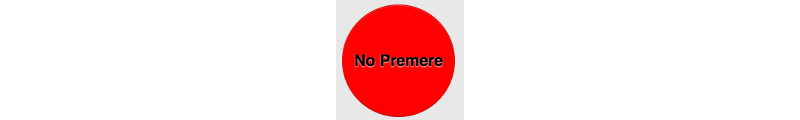
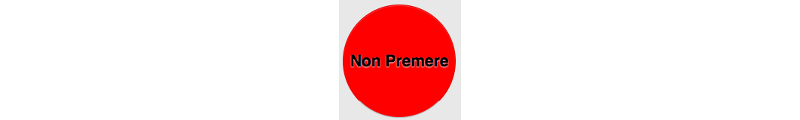
corrections to Italian translation

diff --git a/it/README.md b/it/README.md
@@ -1,10 +1,10 @@
-1. Realizzerai una app con un pulsante grande che, se premuto, farà apparire un messaggio a sorpresa. Vai su App Inventor e seleziona "Avvio nuovo progetto" dal menu **Progetti**. Attribuisci un nome al progetto.
+1. Realizzerai una app con un pulsante grande che, se premuto, farà apparire un messaggio a sorpresa. Vai su App Inventor e seleziona "Avvio nuovo progetto" dal menu **Progetti**. Dai un nome al progetto.
 
-2. Nella **Componenti Disponibili** a sinistra, fai clic su **Impaginazione** e trascina **DisposizioneVerticale** nella schermata del telefono.
+2. Nella barra **Componenti Disponibili** a sinistra, fai clic su **Impaginazione** e trascina **DisposizioneVerticale** nella schermata del telefono.
  
 3. Nel pannello **Proprietà** a destra, fai clic sulla proprietà **Altezza**, seleziona **Riempi contenitore** e fai clic su **OK**. Segui la stessa procedura per la proprietà **Larghezza**. 
 
-4. Ora nella **Componenti Disponibili** sotto **Interfaccia utente**, trascina un **Pulsante** nella **DisposizioneVerticale** sulla schermata del telefono.
+4. Ora nella barra **Componenti Disponibili** sotto **Interfaccia utente**, trascina un **Pulsante** nella **DisposizioneVerticale** sulla schermata del telefono.
 
 5. Sulla destra, alla voce **Componenti Utilizzati**, fai clic su `DisposizioneVerticale1`. Nel pannello **Proprietà**, modifica **AllineamentoOrizzontale** e **AllineamentoVerticale** selezionando _Centro_ per entrambi. Hai notato che il pulsante si è spostato al centro della schermata del telefono?
    ![](VertArrAlignProps_258_800.png)
@@ -14,13 +14,13 @@
    
 7. Modifica le proprietà **Altezza** e **Larghezza** a `150` **pixel** e modifica **Sagoma** in **ovale**.
 
-8. Fai clic sul pulsante **Aggiungi Schermo** situato sulla parte superiore della pagina. Lascia come nome Screen2 e fai clic su **OK**.
+8. Fai clic sul pulsante **Aggiungi Schermo** situato sulla parte superiore della pagina. Lascia come nome "Screen2" e fai clic su **OK**.
 
-9. Al caricamento della nuova schermata, trova il componente **Etichetta** sotto **Interfaccia utente** nella Componenti Disponibili e trascinalo nella schermata. In **Proprietà**, cambia il **Testo** con "Questa app si autodistruggerà tra 5 secondi".
+9. Al caricamento della nuova schermata, trova il componente **Etichetta** sotto **Interfaccia utente** nella barra **Componenti Disponibili** e trascinalo nella schermata. In **Proprietà**, cambia il **Testo** in "Questa app si autodistruggerà tra 5 secondi".
 
-10. All’interno di **Sensori** nella **Componenti Disponibili**, trova **Orologio** e trascinalo nella schermata. Si tratta di un componente invisibile che non visualizzerai sullo schermo. Nelle **Proprietà**, modifica **IntervalloTimer** con `5000`.
+10. All’interno di **Sensori** nella barra **Componenti Disponibili**, trova **Orologio** e trascinalo nella schermata. Si tratta di un componente invisibile che non vedrai sullo schermo. Nelle **Proprietà**, modifica **IntervalloTimer** con `5000`.
 
-11. Fai clic su **Blocchi** nell’angolo in alto a destra. Fai clic su `Clock1` e trascina il blocco `per sempre quanto Orologio1.TimerConcluso esegui`. Fai clic su **Controllo** dai blocchi **Incorporato**, trascina il blocco `chiudi applicazione` e inseriscilo nel blocco precedente.
+11. Fai clic su **Blocchi** nell’angolo in alto a destra. Fai clic su `Clock1` e trascina il blocco `per sempre quando Orologio1.TimerConcluso esegui`. Fai clic su **Controllo** dai blocchi **Incorporato**, trascina il blocco `chiudi applicazione` e inseriscilo nel blocco precedente.
     ![](TimerBlock_124_800.png)
     
 12. Passa a `Screen1` selezionandolo dal relativo pulsante posizionato nella parte superiore della schermata.
@@ -31,7 +31,7 @@
 14. All’interno di **Incorporato**, seleziona **Testo**, trascina il blocco di testo vuoto \(scorri verso l’alto, si trova nella parte superiore\) e inseriscilo in posizione. Clicca all’interno e digita "Screen2".
    ![](Button1BlocksB_66_800.png)
    
-15. La app è terminata! Provala usando l’Emulatore sotto **Connetti** del menu o seleziona l’opzione QR Code (Codice QR) sotto **Compila** per ottenere il link per installare la app sul tuo dispositivo Android.
+15. L'app è terminata! Provala usando l’Emulatore sotto **Connetti** nel menu o seleziona l’opzione QR Code (Codice QR) sotto **Compila** per ottenere il link per installare la app sul tuo dispositivo Android.
  * **Nota:** Per l’installazione tramite Codice QR, dovrai attivare l’opzione "Consenti l’installazione di app da fonti sconosciute" sul tuo dispositivo Android.
     ![](Button_120_800.png) 
 ![](whitespace_10_800.png)
